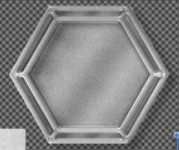
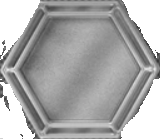
armory png added

diff --git a/client/src/modules/getImageName.ts b/client/src/modules/getImageName.ts
@@ -27,6 +27,9 @@ export const getStructureImage = (structureName: string): {filename: string, fou
         case "Buried Storage":
             filename = 'buriedStorage.png'
             break
+        case "Armory":
+            filename = 'armory.png'
+            break
         case "Farm":
             filename = 'farm.jpg'
             break

diff --git a/client/modules/httpRequest.ts b/client/modules/httpRequest.ts
@@ -1,5 +1,5 @@
 // const baseURL = PROD?"https://clueless-cartel.herokuapp.com":"http://localhost:8004"
-const baseURL = "http://10.0.0.60:8004";
+const baseURL = "http://localhost:8004";
 
 interface APIResponse {
     Status: number,
